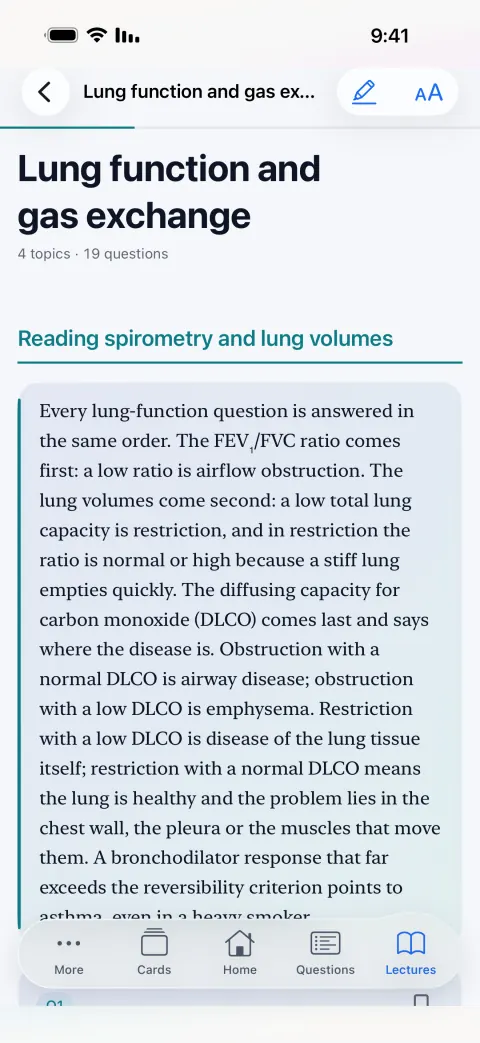
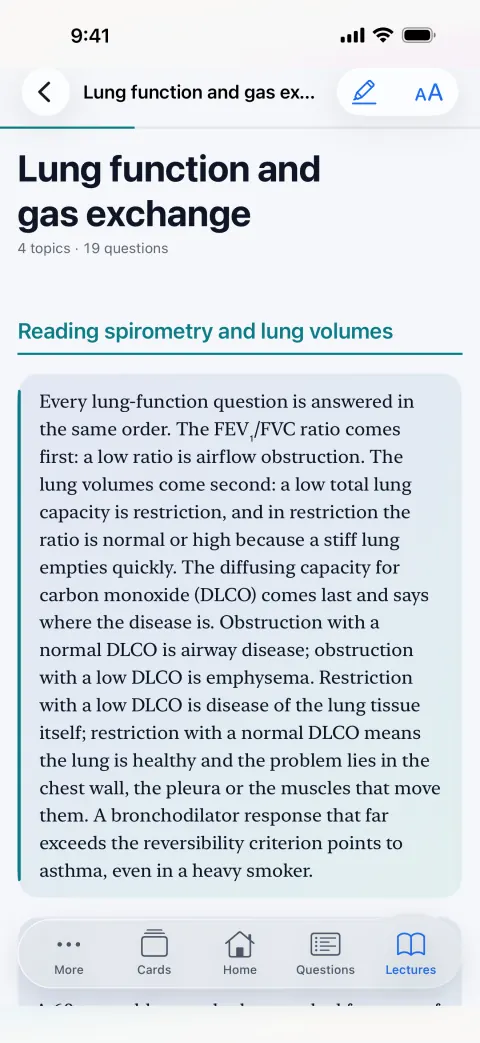
Home links, the support descriptor, the © line and English (U.K.) screenshots (Panel 1.0)
privacy, terms and support: a Home link first in each page's link row; their text is otherwise unchanged.
support: "offline revision for internal-medicine board exams".
index: the footer carries "© 2026 Mohammed Alshehri"; the five screenshots and the share card are re-made from
captures on an English (U.K.) simulator, so the status bar reads 9:41 at the left and the battery at the right;
the question screenshot's alt text now describes what it shows.

diff --git a/index.html b/index.html
@@ -359,7 +359,7 @@ footer{border-top:1px solid var(--hair);padding:32px 0 48px;color:var(--ink2);fo
         <figcaption><b>A lecture</b>Teaching text, with the module’s questions on the same page.</figcaption>
       </figure>
       <figure>
-        <div class="frame"><img src="img/03-question-reveal-480.webp" srcset="img/03-question-reveal-480.webp 480w, img/03-question-reveal-720.webp 720w" sizes="220px" width="480" height="1043" loading="lazy" decoding="async" alt="A practice question after answering: the correct option marked among five, the start of the explanation and a Next button."></div>
+        <div class="frame"><img src="img/03-question-reveal-480.webp" srcset="img/03-question-reveal-480.webp 480w, img/03-question-reveal-720.webp 720w" sizes="220px" width="480" height="1043" loading="lazy" decoding="async" alt="A practice question after answering: the correct option marked, the options below it, the start of the explanation and a Next button."></div>
         <figcaption><b>A question</b>Five options, then the answer and its explanation.</figcaption>
       </figure>
       <figure>
@@ -441,6 +441,7 @@ footer{border-top:1px solid var(--hair);padding:32px 0 48px;color:var(--ink2);fo
       <a href="support.html">Support</a>
     </nav>
     <p>Panel Board Revision. For revision, not for patient care.</p>
+    <p class="legal wide">© 2026 Mohammed Alshehri</p>
     <p class="legal wide">iPhone is a trademark of Apple Inc., registered in the U.S. and other countries and regions. App Store is a service mark of Apple Inc., registered in the U.S. and other countries and regions.</p>
   </div>
 </footer>

diff --git a/terms.html b/terms.html
@@ -17,7 +17,7 @@
 </head>
 <body>
 <main>
-<nav><a href="privacy.html">Privacy</a> · <a href="terms.html" aria-current="page">Terms</a> · <a href="support.html">Support</a></nav>
+<nav><a href="./">Home</a> · <a href="privacy.html">Privacy</a> · <a href="terms.html" aria-current="page">Terms</a> · <a href="support.html">Support</a></nav>
 <h1>Terms of Use</h1>
 <p class="meta">Panel Board Revision · <strong>Effective:</strong> 8 October 2026 · <strong>Last updated:</strong> 8 October 2026</p>
 <p>These terms apply to Panel, the board-revision app for iPhone. By using Panel you agree to them and to <a href="https://www.apple.com/legal/internet-services/itunes/dev/stdeula/">Apple's Licensed Application End User License Agreement</a> ("Apple's agreement"), under which every App Store app is licensed. Where the two differ, these terms add to Apple's agreement and do not take away any right it gives you.</p>

diff --git a/privacy.html b/privacy.html
@@ -17,7 +17,7 @@
 </head>
 <body>
 <main>
-<nav><a href="privacy.html" aria-current="page">Privacy</a> · <a href="terms.html">Terms</a> · <a href="support.html">Support</a></nav>
+<nav><a href="./">Home</a> · <a href="privacy.html" aria-current="page">Privacy</a> · <a href="terms.html">Terms</a> · <a href="support.html">Support</a></nav>
 <h1>Privacy Policy</h1>
 <p class="meta">Panel Board Revision · <strong>Effective:</strong> 8 October 2026 · <strong>Last updated:</strong> 8 October 2026</p>
 <p>Panel is a study app for the internal medicine board examination. This policy says what Panel keeps, where it keeps it, and what leaves your device. In short: <strong>there is no account, your study stays on your device, and nothing is sent to us.</strong></p>

diff --git a/support.html b/support.html
@@ -17,9 +17,9 @@
 </head>
 <body>
 <main>
-<nav><a href="privacy.html">Privacy</a> · <a href="terms.html">Terms</a> · <a href="support.html" aria-current="page">Support</a></nav>
+<nav><a href="./">Home</a> · <a href="privacy.html">Privacy</a> · <a href="terms.html">Terms</a> · <a href="support.html" aria-current="page">Support</a></nav>
 <h1>Support</h1>
-<p class="meta">Panel Board Revision — offline revision for the Saudi Board Internal Medicine exam</p>
+<p class="meta">Panel Board Revision — offline revision for internal-medicine board exams</p>
 
 <h2>Contact</h2>
 <p>Email <a href="mailto:dr.mas@me.com">dr.mas@me.com</a>. Please include your iPhone model and the iOS version.</p>
